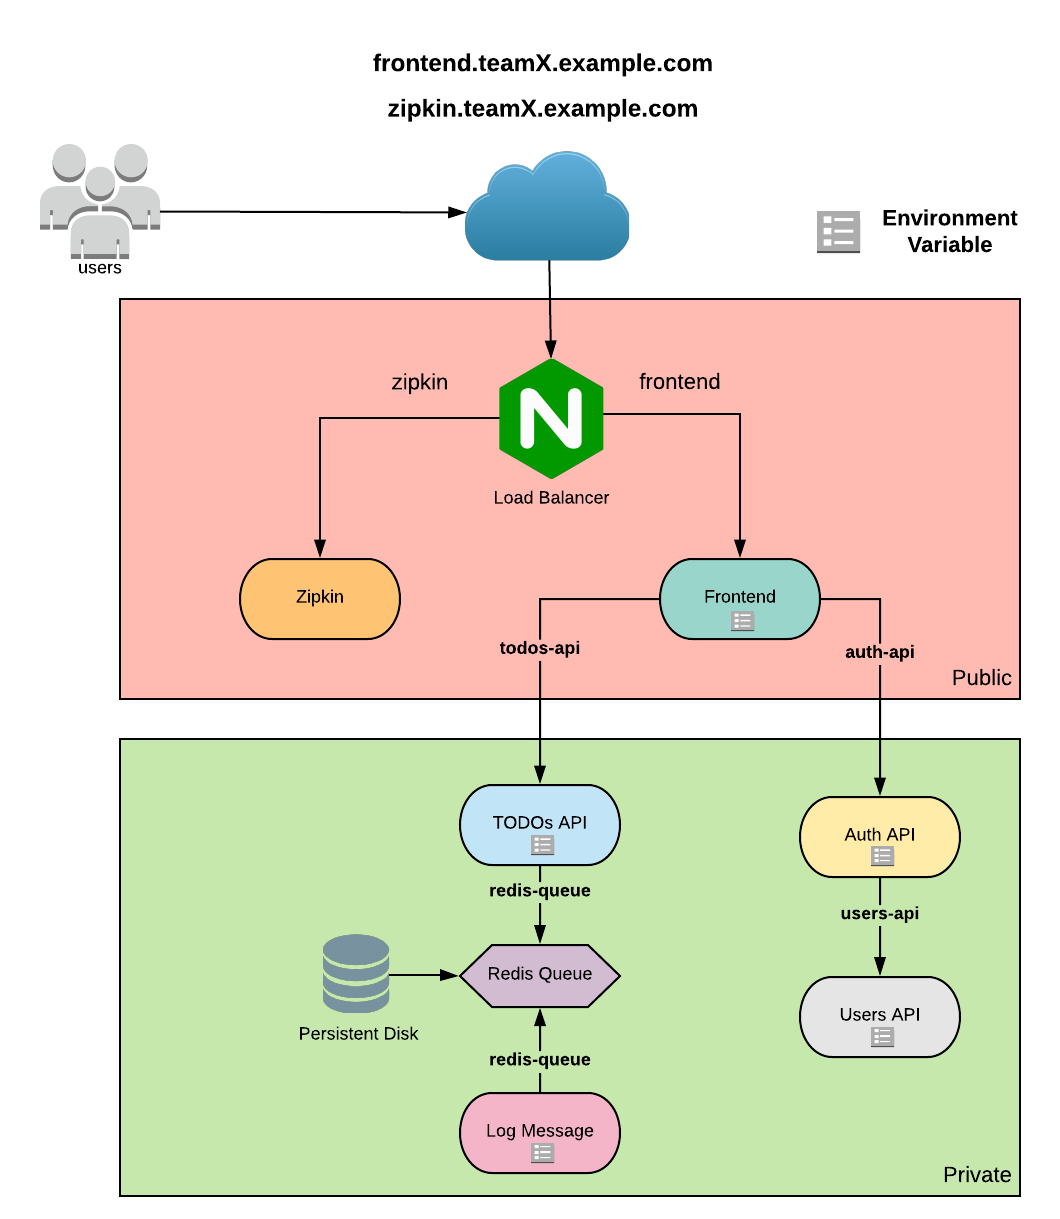
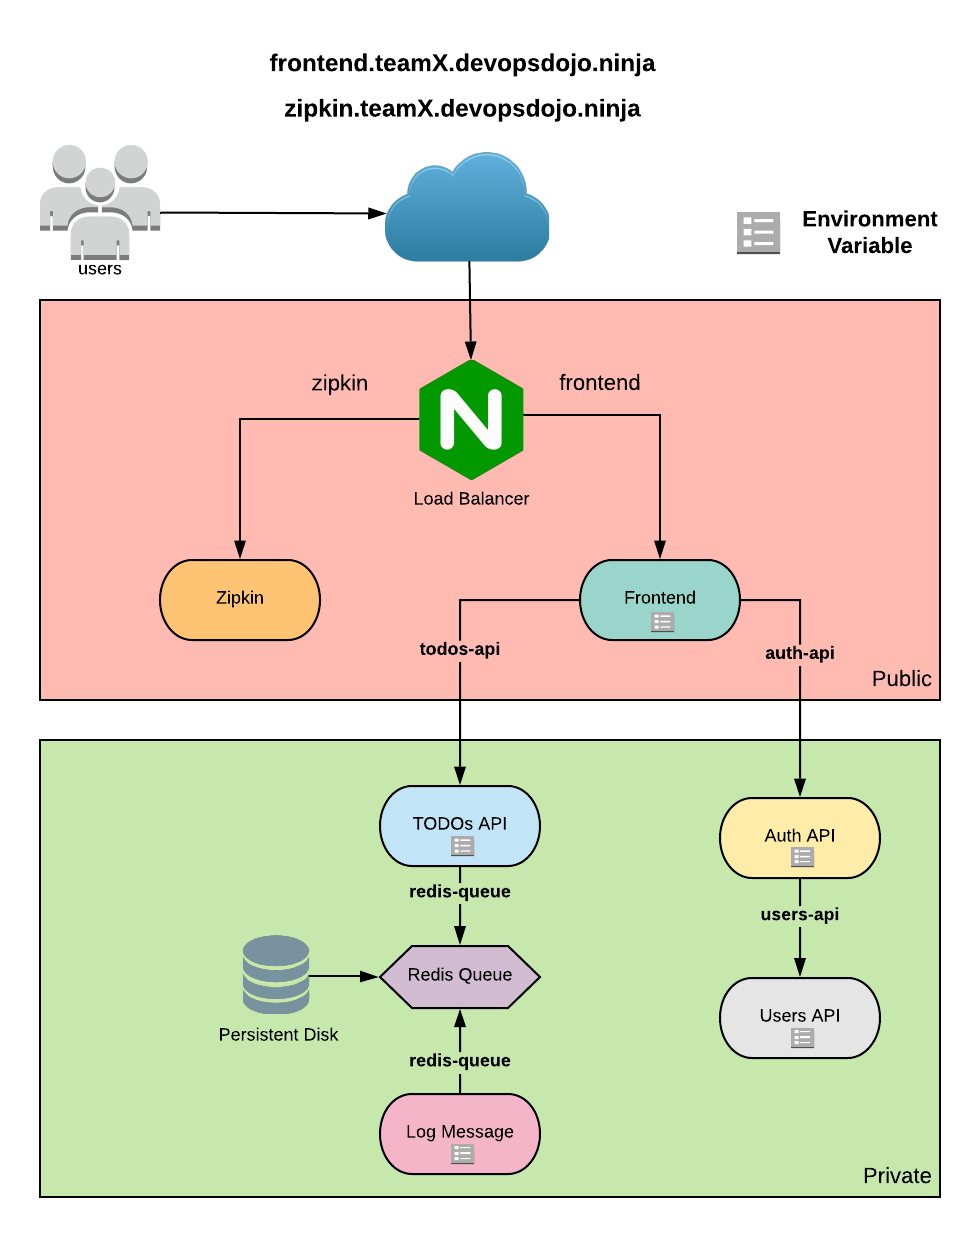
Made some improvements to the challenge description

Changed region(s): [[0.0306, 0.0312, 0.9796, 0.9975], [0.1531, 0.4364, 0.398, 0.5299], [0.2755, 0.3429, 0.3061, 0.3741]]

diff --git a/README.md b/README.md
@@ -4,7 +4,7 @@ In this challenge, you will have to deploy a TODO application to a Kubernetes cl
 
 # How the Challenge is Structured
 
-The challenge will start with an overview of the solution architecture, followed by a few sections to help you set up your environment. Then, there will be number of sections where each one of them tackles a small piece of the puzzle. And to make sure you've figured out each small piece correctly, there will be **Definition of Done** sections to show you how to test your solution. Finally, from time to time you will see **For discussion** sections (which are optional and can be skipped). The goal of these sections is to create a discussion between the team members and the organizers about a certain topic.
+The challenge will start with an overview of the solution's architecture, followed by a few sections to help you set up your environment. Then, there will be number of sections where each one of them tackles a small piece of the puzzle. And to make sure you've figured out each small piece correctly, there will be **Definition of Done** sections to show you how to test your solution. Finally, you will see some **For discussion** sections (which are optional and can be skipped). The goal of these sections is to create a discussion between the team members and the organizers about a certain topic.
 
 # Architecture
 
@@ -18,15 +18,16 @@ Here's a summary of the architecture:
 * Both Zipkin and Frontend will be served by only one Load Balancer
 * A few services will need to be configured with Environment Variables (Frontend, TODOs API, Auth API, Log Message and Users API)
 * Services can communicate internally with other services via private DNS names
-* The Redis Queue service will persist its data in a persistent disk that sits outside of the cluster
 
 # Cloning the Application Repository
 
-As aforementioned, you will be deploying seven microservices. To get started, clone this repository anywhere in your system (for Windows users: clone the repo under your home directory to avoid issues when mounting a volume into a Docker container): [https://github.com/elgris/microservice-app-example](https://github.com/elgris/microservice-app-example)
+As aforementioned, you will be deploying seven microservices. To get started, clone this repository anywhere in your system: [https://github.com/elgris/microservice-app-example](https://github.com/elgris/microservice-app-example)
+
+**Windows users: clone the repo under your home directory to avoid issues when mounting a volume into a Docker container.**
 
 # Accessing `kubectl`
 
-You will not need to install `kubectl` in your local machine. We have already prepared a Docker image configured with everything you will need. However, note that if you run kubectl inside the container but you are developing definition files outside the container (in your local machine), you will not be able to deploy anything. You will have to mount a volume into the container so kubectl can have access to your files. First, cd into the directory where you cloned the microservice-app-example repo, then run the following docker command to get started:
+You will not need to install `kubectl` in your local machine. We have already prepared a Docker image configured with everything you will need. However, note that if you run kubectl inside the container but you are developing definition files outside the container (in your local machine), you will not be able to deploy anything. You will have to mount a volume into the container so kubectl can have access to your files. First, cd into the directory where you cloned the `microservice-app-example` repo, then run the following docker command to get started:
 
 ```bash
 docker run --rm -it -e "URL1=<URL1>" -e "URL2=<URL2>" -v <PATH-TO-REPO>:/code slalomdojo/env:kubernetes
@@ -52,7 +53,7 @@ Whenever you deploy an application to Kubernetes without specifying a [Namespace
 
 ## Definition of Done
 
-Run `kubectl get ns` and you should see your namespace (`teamX`) listed. If it's not listed, then it has not been creted yet.
+Run `kubectl get ns` and you should see your namespace (`teamX`) listed. If it's not listed, then it has not been created yet.
 
 ***
 
@@ -82,7 +83,7 @@ You will notice that each microservice (not considering Redis or Zipkin) is refe
 * Users API: **slalomdojo/users-api**
 * Zipkin: **openzipkin/zipkin** (this image will not change)
 
-Go in each `deployment.yaml` and change the image accordingly.
+Open all `deployment.yaml` files and change the images accordingly.
 
 ## Definition of Done
 
@@ -112,9 +113,9 @@ Now that we are referencing the correct Docker images, let's [deploy](https://ku
 * todos-api
 * users-api
 
-In the majority of the directories you will a `deployment.yaml` and a `service.yaml`. **Do not worry about service.yaml for now**. Focus on `deployment.yaml` only.
+In the majority of the directories you will see a `deployment.yaml` and a `service.yaml`. **Do not worry about service.yaml for now**. Focus on `deployment.yaml` only.
 
-After deploying all the microservices above, [get](https://kubernetes.io/docs/reference/generated/kubectl/kubectl-commands#get) the pods of your namespace. If you haven't modified anything in `deployment.yaml` apart from the image name, you should see this:
+After deploying all the microservices above, [get](https://kubernetes.io/docs/reference/generated/kubectl/kubectl-commands#get) the pods in your namespace. If you haven't modified anything in `deployment.yaml` apart from the image name, you should see this:
 
 ```bash
 NAME                                     READY     STATUS              RESTARTS   AGE
@@ -152,11 +153,11 @@ All pods should be running, apart from log-message-processor which we will fix l
 
 # Deploying Redis and Zipkin
 
-Finally, deploy Redis and Zipkin. This should be an easy step as you should be able to deploy them as they are right now (without modifying anything in the deployment.yaml). 
+Finally, deploy Redis and Zipkin. This should be an easy step as you should be able to deploy them as they are right now (without modifying anything in their `deployment.yaml`). 
 
 ## Definition of Done
 
-You should have 7 Pods running:
+You should have 7 Pods running now:
 
 ```bash
 NAME                                     READY     STATUS             RESTARTS   AGE
@@ -213,13 +214,13 @@ Note that one of the Environment Variables is a JWT Secret. Kubernetes has a spe
 
 Here's what you need to do:
 
-1. Create one or more secrets that will be used by the microservices that require the JWT_SECRET environment variable.
-2. Whenever you see the JWT_SECRET environment varible in a `deployment.yaml` file, remove the `value` line only and replace it with a code that will reference a secret
+1. Create one or more secrets that will be used by the microservices that require the `JWT_SECRET` environment variable.
+2. Whenever you see the `JWT_SECRET` environment variable in a `deployment.yaml` file, remove the `value` line only and replace it with some [code that will reference a secret](https://kubernetes.io/docs/tasks/inject-data-application/distribute-credentials-secure/)
 3. Re-deploy the microservices.
 
 If you are not sure whether your solution worked or not, check out the **Definition of Done** section below.
 
-## For discussion
+## For Discussion
 
 Should you create a single Secret and use it for all microservices or create one Secret per microservice?
 
@@ -236,7 +237,7 @@ NAME                                     READY     STATUS             RESTARTS  
 auth-api-7867c48997-zzx77                1/1       Running            0          14m
 ```
 2. [Describe](https://kubernetes.io/docs/reference/generated/kubectl/kubectl-commands#describe) the pod and check the **Environment** object. You should see JWT_SECRET key but not the value. The value should be something like `<set to the key 'JWT_SECRET' in secret 'SECRET-NAME'>  Optional: false`.
-3. [Exec](https://kubernetes.io/docs/reference/generated/kubectl/kubectl-commands#exec) into the pod's container, run `env` and make sure *JWT_SECRET* is set.
+3. [Exec](https://kubernetes.io/docs/reference/generated/kubectl/kubectl-commands#exec) into the pod's container, run `env` and make sure `JWT_SECRET` is set.
 
 ***
 
@@ -244,16 +245,16 @@ auth-api-7867c48997-zzx77                1/1       Running            0         
 
 If you do not specify any health checks for your Pods, Kubernetes will not know when they're down. Health checks on Kubernetes can be configured using [Probes](https://kubernetes.io/docs/tasks/configure-pod-container/configure-liveness-readiness-probes/). There are three types of Probes: Liveness, Readiness and Startup. For this challenge, only Liveness and Readiness Probes should suffice. You do not need to implement Startup Probes. But if you would like to play around with it, feel free. Here's how you should configure each app (you can choose the values for failure and success thresholds, timeout, delay etc):
 
-* Auth API: HTTP GET on port 8081; path /version
-* Frontend: HTTP GET on port 8080; path /
-* Redis Queue: TCP Socket on port 6379
-* TODOs API: HTTP GET on port 8082; path /health
-* Users API: TCP Socket on port 8083
-* Zipkin: HTTP GET on port 9411; path /health
+* Auth API: HTTP GET on **port 8081**; path `/version`
+* Frontend: HTTP GET on port **8080**; path `/`
+* Redis Queue: TCP Socket on port **6379**
+* TODOs API: HTTP GET on port **8082**; path `/health`
+* Users API: TCP Socket on port **8083**
+* Zipkin: HTTP GET on port **9411**; path `/health`
 
-**You do not need to configure health checks for the Log Message Processor service.**
+**You do not need to configure health checks for the Log Message Processor Pod.**
 
-## For discussion
+## For Discussion
 
 What's the difference between Startup and Readiness Probes? Should you ever configure both at the same time? Or should you only use one instead of the other?
 
@@ -291,7 +292,7 @@ This leads to a problem: if some set of Pods (call them “backends”) provides
 Enter Services.
 ```
 
-> If the definition of Services is still not clear, reach out to one of the organizers 
+> If you still don't understand what Services are, reach out to one of the organizers.
 
 First, let's create Services for:
 
@@ -307,9 +308,9 @@ Finally, there are 2 Pods for which we still need to create Services:
 * frontend
 * zipkin
 
-Before you deploy these, you will have to change something in their `service.yaml`. Where it reads `type: LoadBalancer`, change it to `type: ClusterIP`. They key difference here is that Load Balancer would create a Load Balancer on GCP, while ClusterIP assigns a private IP to the service. The reason we don't want a Load Balancer is because the **Ingress Controller** already has a Load Balancer, which we'll use later.
+Before you deploy these, you will have to change something in their `service.yaml`. Where it reads `type: LoadBalancer`, change it to `type: ClusterIP`. They key difference here is that Load Balancer would create a Load Balancer on GCP, while ClusterIP assigns a private IP to the service. The reason we don't want a Load Balancer is because the [Ingress Controller](https://kubernetes.io/docs/concepts/services-networking/ingress-controllers/) already has a Load Balancer, which we'll use later.
 
-What about `log-message-processor`? We will not create a Service for it since there are no Pods that are sending requests to the `log-message-processor`.
+What about `log-message-processor`? We will not create a Service for it since there are no Pods sending requests to it.
 
 ## For Discussion
 
@@ -329,7 +330,7 @@ users-api     ClusterIP   10.19.246.116   <none>        8083/TCP   1m
 zipkin        ClusterIP   10.19.255.221   <none>        9411/TCP   1m
 ```
 
-If there are any services with an External IP, that means you forgot to change Load Balancer to ClusterIP. You should have 6 Cluster IPs and 0 External IPs.
+If there are any services with an External IP, that means you forgot to change `Load Balancer` to `ClusterIP`. You should have 6 Cluster IPs and 0 External IPs.
 
 ***
 
@@ -392,8 +393,8 @@ If you are having trouble with these URLs not being resolved, please reach out t
 
 ## Ingress vs Services
 
-Although you can use [Services](https://kubernetes.io/docs/concepts/services-networking/service/) to expose applications to the Internet via Load Balancers, for this challenge use [Ingress](https://kubernetes.io/docs/concepts/services-networking/ingress/) instead. Ingress resources are powerful as it allows you to smartly route traffic to multiple backend services. If you read the documentation, you will notice that you need an Ingress Controller before you can deploy Ingress resources. **Your cluster already has an Ingress Controller that we deployed for you. Take a look at the pods in the ingress namespace.** (This is the Ingress Controller implementation we are using)[https://github.com/kubernetes/ingress-nginx].
-To link your Ingress resource to the controller that has been deployed, use the following piece of code in each of the Ingress definition files:
+Although you can use [Services](https://kubernetes.io/docs/concepts/services-networking/service/) to expose applications to the Internet using Load Balancers, for this challenge use [Ingress](https://kubernetes.io/docs/concepts/services-networking/ingress/) instead. Ingress resources are powerful as it allows you to smartly route traffic to multiple backend services. If you read the documentation, you will notice that you need an Ingress Controller before you can deploy Ingress resources. **Your cluster already has an Ingress Controller that was already deployed for you. Take a look at the pods in the ingress namespace.** [This is the Ingress Controller implementation we are using](https://github.com/kubernetes/ingress-nginx).
+To link your Ingress resource to the controller that has been deployed, use the following [Annotation](https://kubernetes.io/docs/concepts/overview/working-with-objects/annotations/) in each of the Ingress definition files:
 
 ```
 kind: Ingress
@@ -406,13 +407,25 @@ The annotation above tells Kubernetes that this Ingress belongs to the class **d
 
 ## For Discussion
 
-If there were 15 applications in total and there were split into 3 groups of 5 applications, how would you configure Ingress/Ingress Controller so that each group was assigned its own Load Balancer (there would be 3 Load Balancers in total)?
+If there were 15 applications in total and they were split into 3 groups of 5 applications, how would you configure Ingress/Ingress Controller so that each group was assigned its own Load Balancer (in this case, there would be 3 Load Balancers in total)?
 
 ## Definition of Done
 
-You should be able to type in `frontend.team1.toronto.devopsdojo.ninja` and `zipkin.team1.toronto.devopsdojo.ninja` and see an interface for each.
+You should be able to type in `frontend.teamX.devopsdojo.ninja` and `zipkin.teamX.devopsdojo.ninja` in your browser and see the following interfaces:
 
-If you're having DNS issues, try curling these URLs and setting the `Host` header. For example: `curl <INGRESS-IP> -H 'Host: frontend.teamX.devopsdojo.ninja'`. You should be able to get a response for the Frontend, but you will not get a response for Zipkin. If you got a positive response for the Frontend, it's safe to assume Zipkin is also working.
+`Frontend`
+![image-06](./images/06-frontend-interface.png)
+
+`Zipkin`
+![image-08](./images/08-zipkin-interface.png)
+
+If you're having DNS issues, try curling these URLs and setting the `Host` header. For example: 
+
+```bash
+curl <INGRESS-IP> -H 'Host: frontend.teamX.devopsdojo.ninja'
+``` 
+
+You should be able to get a response for the Frontend, but you will not get a response for Zipkin. If you got a positive response for the Frontend, it's safe to assume Zipkin is also working.
 
 ***
 
@@ -482,3 +495,4 @@ After implementing all the Network Policies above, is the application still work
 ## Definition of Done
 
 The application should be working as before and you should be able to log in, create and delete tasks and log out.
+
